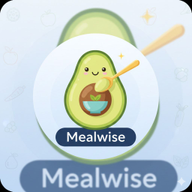
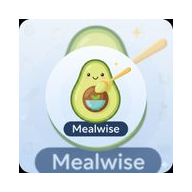
mealwise is live

diff --git a/scripts/generate-icons.js b/scripts/generate-icons.js
@@ -5,13 +5,63 @@ const fs = require('fs');
 const PUBLIC_DIR = path.join(__dirname, '../public');
 const FAVICON_PATH = path.join(PUBLIC_DIR, 'favicon.ico');
 
+// Icon configurations with safe zones for maskable icons
 const icons = [
-    { name: 'apple-touch-icon.png', size: 180 },
-    { name: 'android-chrome-192x192.png', size: 192 },
-    { name: 'android-chrome-512x512.png', size: 512 },
-    { name: 'favicon-16x16.png', size: 16 },
-    { name: 'favicon-32x32.png', size: 32 },
+    // iOS - no safe zone needed
+    { name: 'apple-touch-icon.png', size: 180, safeZone: 1.0 },
+    // Android - maskable icons need 80% safe zone
+    { name: 'android-chrome-192x192.png', size: 192, safeZone: 0.8 },
+    { name: 'android-chrome-512x512.png', size: 512, safeZone: 0.8 },
+    // Favicons - no safe zone needed
+    { name: 'favicon-16x16.png', size: 16, safeZone: 1.0 },
+    { name: 'favicon-32x32.png', size: 32, safeZone: 1.0 },
 ];
+
+/**
+ * Generate icon with proper safe zone for maskable icons
+ * Safe zone ensures content is within 80% of icon area (10% padding on all sides)
+ */
+async function generateIconWithSafeZone(sourcePath, outputPath, size, safeZone) {
+    if (safeZone === 1.0) {
+        // No safe zone needed - resize directly
+        await sharp(sourcePath)
+            .resize(size, size, {
+                fit: 'contain',
+                background: { r: 255, g: 255, b: 255, alpha: 0 }
+            })
+            .toFile(outputPath);
+    } else {
+        // Create icon with safe zone
+        // Calculate safe zone dimensions (80% of size)
+        // Round padding to ensure integer pixel positions
+        const padding = Math.round((size * (1 - safeZone)) / 2);
+        const safeZoneSize = size - (padding * 2);
+        
+        // Resize source to safe zone size
+        const resized = await sharp(sourcePath)
+            .resize(safeZoneSize, safeZoneSize, {
+                fit: 'contain',
+                background: { r: 255, g: 255, b: 255, alpha: 0 }
+            })
+            .toBuffer();
+        
+        // Create canvas with padding and place resized icon in center
+        await sharp({
+            create: {
+                width: size,
+                height: size,
+                channels: 4,
+                background: { r: 255, g: 255, b: 255, alpha: 0 }
+            }
+        })
+            .composite([{
+                input: resized,
+                left: padding,  // Now guaranteed to be an integer
+                top: padding    // Now guaranteed to be an integer
+            }])
+            .toFile(outputPath);
+    }
+}
 
 async function generateIcons() {
     if (!fs.existsSync(FAVICON_PATH)) {
@@ -19,21 +69,29 @@ async function generateIcons() {
         process.exit(1);
     }
 
-    console.log('Generating icons from favicon.ico...');
+    console.log('Generating PWA icons with proper safe zones...');
+    console.log('Note: Maskable icons (Android) use 80% safe zone (10% padding on all sides)');
 
     for (const icon of icons) {
         const outputPath = path.join(PUBLIC_DIR, icon.name);
         try {
-            await sharp(FAVICON_PATH)
-                .resize(icon.size, icon.size)
-                .toFile(outputPath);
-            console.log(`Generated ${icon.name}`);
+            await generateIconWithSafeZone(
+                FAVICON_PATH,
+                outputPath,
+                icon.size,
+                icon.safeZone
+            );
+            console.log(`✅ Generated ${icon.name} (${icon.size}x${icon.size}, safe zone: ${(icon.safeZone * 100).toFixed(0)}%)`);
         } catch (error) {
-            console.error(`Error generating ${icon.name}:`, error);
+            console.error(`❌ Error generating ${icon.name}:`, error);
         }
     }
 
-    console.log('Icon generation complete!');
+    console.log('\n✨ Icon generation complete!');
+    console.log('\n📱 Next steps:');
+    console.log('1. Test icons on your device after installing PWA');
+    console.log('2. Icons should now be properly centered and proportionate');
+    console.log('3. If issues persist, consider using a dedicated icon design tool');
 }
 
 generateIcons();

diff --git a/app/manifest.ts b/app/manifest.ts
@@ -16,13 +16,32 @@ export default function manifest(): MetadataRoute.Manifest {
                 type: 'image/x-icon',
             },
             {
-                src: '/icon-192.png',
+                src: '/android-chrome-192x192.png',
                 sizes: '192x192',
                 type: 'image/png',
+                purpose: 'any',
             },
             {
-                src: '/icon-512.png',
+                src: '/android-chrome-192x192.png',
+                sizes: '192x192',
+                type: 'image/png',
+                purpose: 'maskable',
+            },
+            {
+                src: '/android-chrome-512x512.png',
                 sizes: '512x512',
+                type: 'image/png',
+                purpose: 'any',
+            },
+            {
+                src: '/android-chrome-512x512.png',
+                sizes: '512x512',
+                type: 'image/png',
+                purpose: 'maskable',
+            },
+            {
+                src: '/apple-touch-icon.png',
+                sizes: '180x180',
                 type: 'image/png',
             },
         ],

diff --git a/PWA_ICON_FIX_GUIDE.md b/PWA_ICON_FIX_GUIDE.md
@@ -1,0 +1,176 @@
+# 🔧 PWA Icon Fix Guide - Proper Dimensions & Safe Zones
+
+## Problem
+PWA icons don't look proportionate when installed on phones because they're missing proper **safe zones** for maskable icons.
+
+## Solution
+Icons need to be designed with a **safe zone** (80% of the icon area) where important content lives, leaving 10% padding on all sides.
+
+---
+
+## Required Icon Specifications
+
+### Android Icons (Maskable)
+- **192x192px** - Minimum size for Android
+- **512x512px** - Recommended for high-DPI displays
+- **Safe Zone**: 80% of icon area (content should be within 153x153px for 192px icon, 409x409px for 512px icon)
+- **Padding**: 10% on all sides (19px for 192px, 51px for 512px)
+
+### iOS Icons (Apple Touch Icon)
+- **180x180px** - Required for iOS
+- **No safe zone needed** - iOS doesn't mask icons
+- **Full icon area** can be used
+
+---
+
+## Current Issues
+
+1. **Manifest Configuration**: Icons are marked as `"purpose": "any maskable"` but may not have proper safe zones
+2. **Icon Generation**: The script resizes from favicon.ico without considering safe zones
+3. **Missing Separate Purposes**: Should have separate "any" and "maskable" icons
+
+---
+
+## Fix Steps
+
+### Option 1: Update Icon Generation Script (Recommended)
+
+The script should:
+1. Create icons with proper safe zones
+2. Generate both "any" and "maskable" versions
+3. Ensure perfect square dimensions
+
+### Option 2: Manual Icon Creation
+
+1. **Design your icon** with safe zones in mind:
+   - Create a 512x512px canvas
+   - Draw a 409x409px safe zone (centered)
+   - Place important content within the safe zone
+   - Add padding/background in the outer 10%
+
+2. **Export icons**:
+   - 192x192px (Android)
+   - 512x512px (Android)
+   - 180x180px (iOS)
+
+3. **Use a tool** like:
+   - [PWA Asset Generator](https://github.com/onderceylan/pwa-asset-generator)
+   - [Maskable.app](https://maskable.app/)
+   - [Figma PWA Icon Template](https://www.figma.com/community/file/1012577378976668536)
+
+---
+
+## Updated Manifest Configuration
+
+```json
+{
+  "icons": [
+    {
+      "src": "/android-chrome-192x192.png",
+      "sizes": "192x192",
+      "type": "image/png",
+      "purpose": "any"
+    },
+    {
+      "src": "/android-chrome-192x192-maskable.png",
+      "sizes": "192x192",
+      "type": "image/png",
+      "purpose": "maskable"
+    },
+    {
+      "src": "/android-chrome-512x512.png",
+      "sizes": "512x512",
+      "type": "image/png",
+      "purpose": "any"
+    },
+    {
+      "src": "/android-chrome-512x512-maskable.png",
+      "sizes": "512x512",
+      "type": "image/png",
+      "purpose": "maskable"
+    },
+    {
+      "src": "/apple-touch-icon.png",
+      "sizes": "180x180",
+      "type": "image/png"
+    }
+  ]
+}
+```
+
+---
+
+## Quick Fix: Use PWA Asset Generator
+
+```bash
+# Install globally
+npm install -g pwa-asset-generator
+
+# Generate all icons from a source image
+pwa-asset-generator source-icon.png public/ \
+  --icon-only \
+  --favicon \
+  --type png \
+  --padding "10%" \
+  --background "#6366f1"
+```
+
+This will:
+- ✅ Generate all required sizes
+- ✅ Create maskable versions with safe zones
+- ✅ Generate favicons
+- ✅ Create Apple touch icons
+- ✅ Ensure proper dimensions
+
+---
+
+## Testing
+
+1. **Install PWA** on your phone
+2. **Check icon appearance**:
+   - Should be centered
+   - Should not be cropped
+   - Should look proportionate
+   - Should work in different icon shapes (circle, rounded square, etc.)
+
+3. **Test on different devices**:
+   - Android (various manufacturers)
+   - iOS
+   - Different screen densities
+
+---
+
+## Visual Guide
+
+```
+┌─────────────────────────────────┐
+│ 10% Padding (Safe Zone Border) │
+│ ┌─────────────────────────────┐ │
+│ │                             │ │
+│ │   80% Safe Zone             │ │
+│ │   (Important Content)       │ │
+│ │                             │ │
+│ └─────────────────────────────┘ │
+│ 10% Padding                     │
+└─────────────────────────────────┘
+    512x512px Icon
+```
+
+**For 192x192px icon:**
+- Safe zone: 153x153px (centered)
+- Padding: 19px on all sides
+
+**For 512x512px icon:**
+- Safe zone: 409x409px (centered)
+- Padding: 51px on all sides
+
+---
+
+## Next Steps
+
+1. ✅ Update icon generation script
+2. ✅ Regenerate icons with safe zones
+3. ✅ Update manifest.json
+4. ✅ Test on devices
+5. ✅ Redeploy
+
